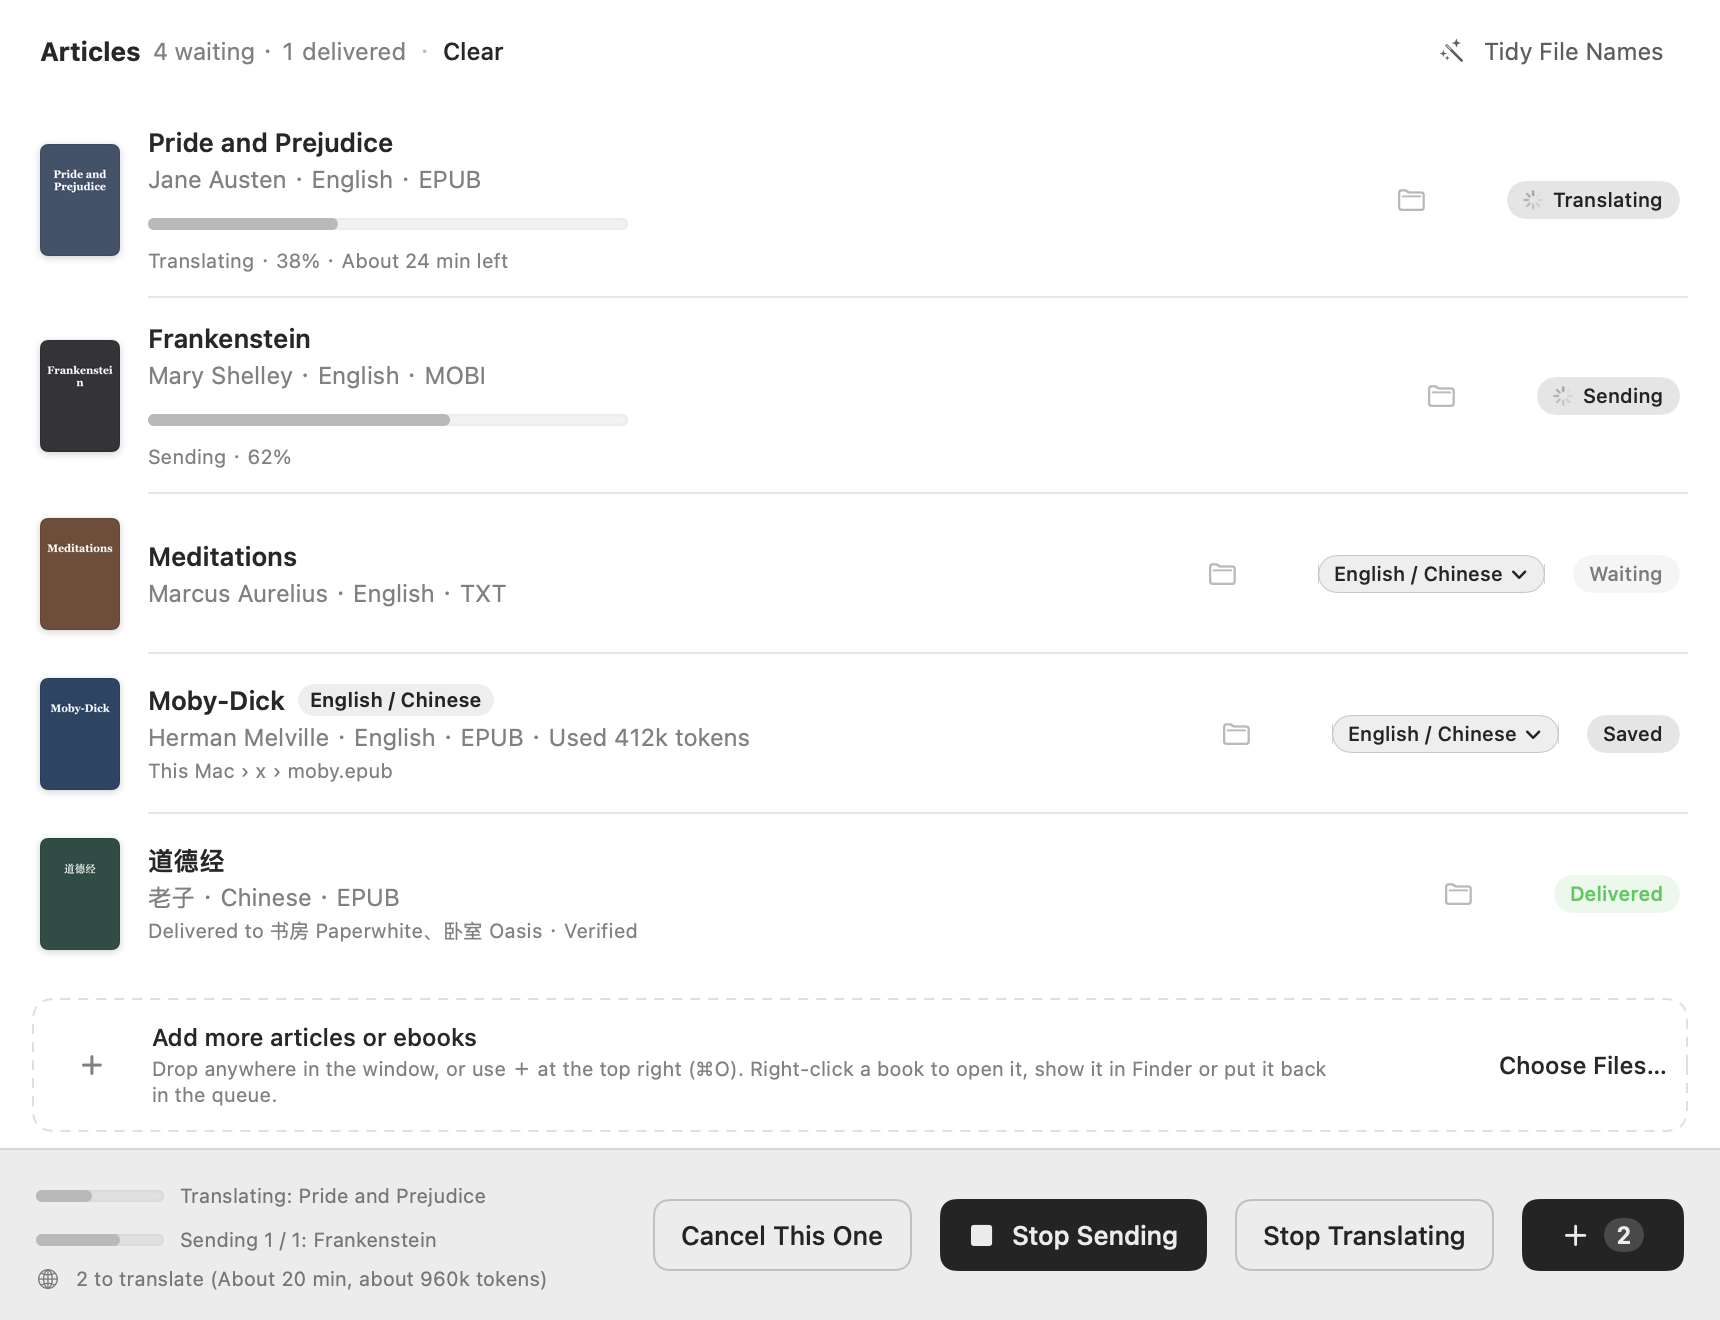
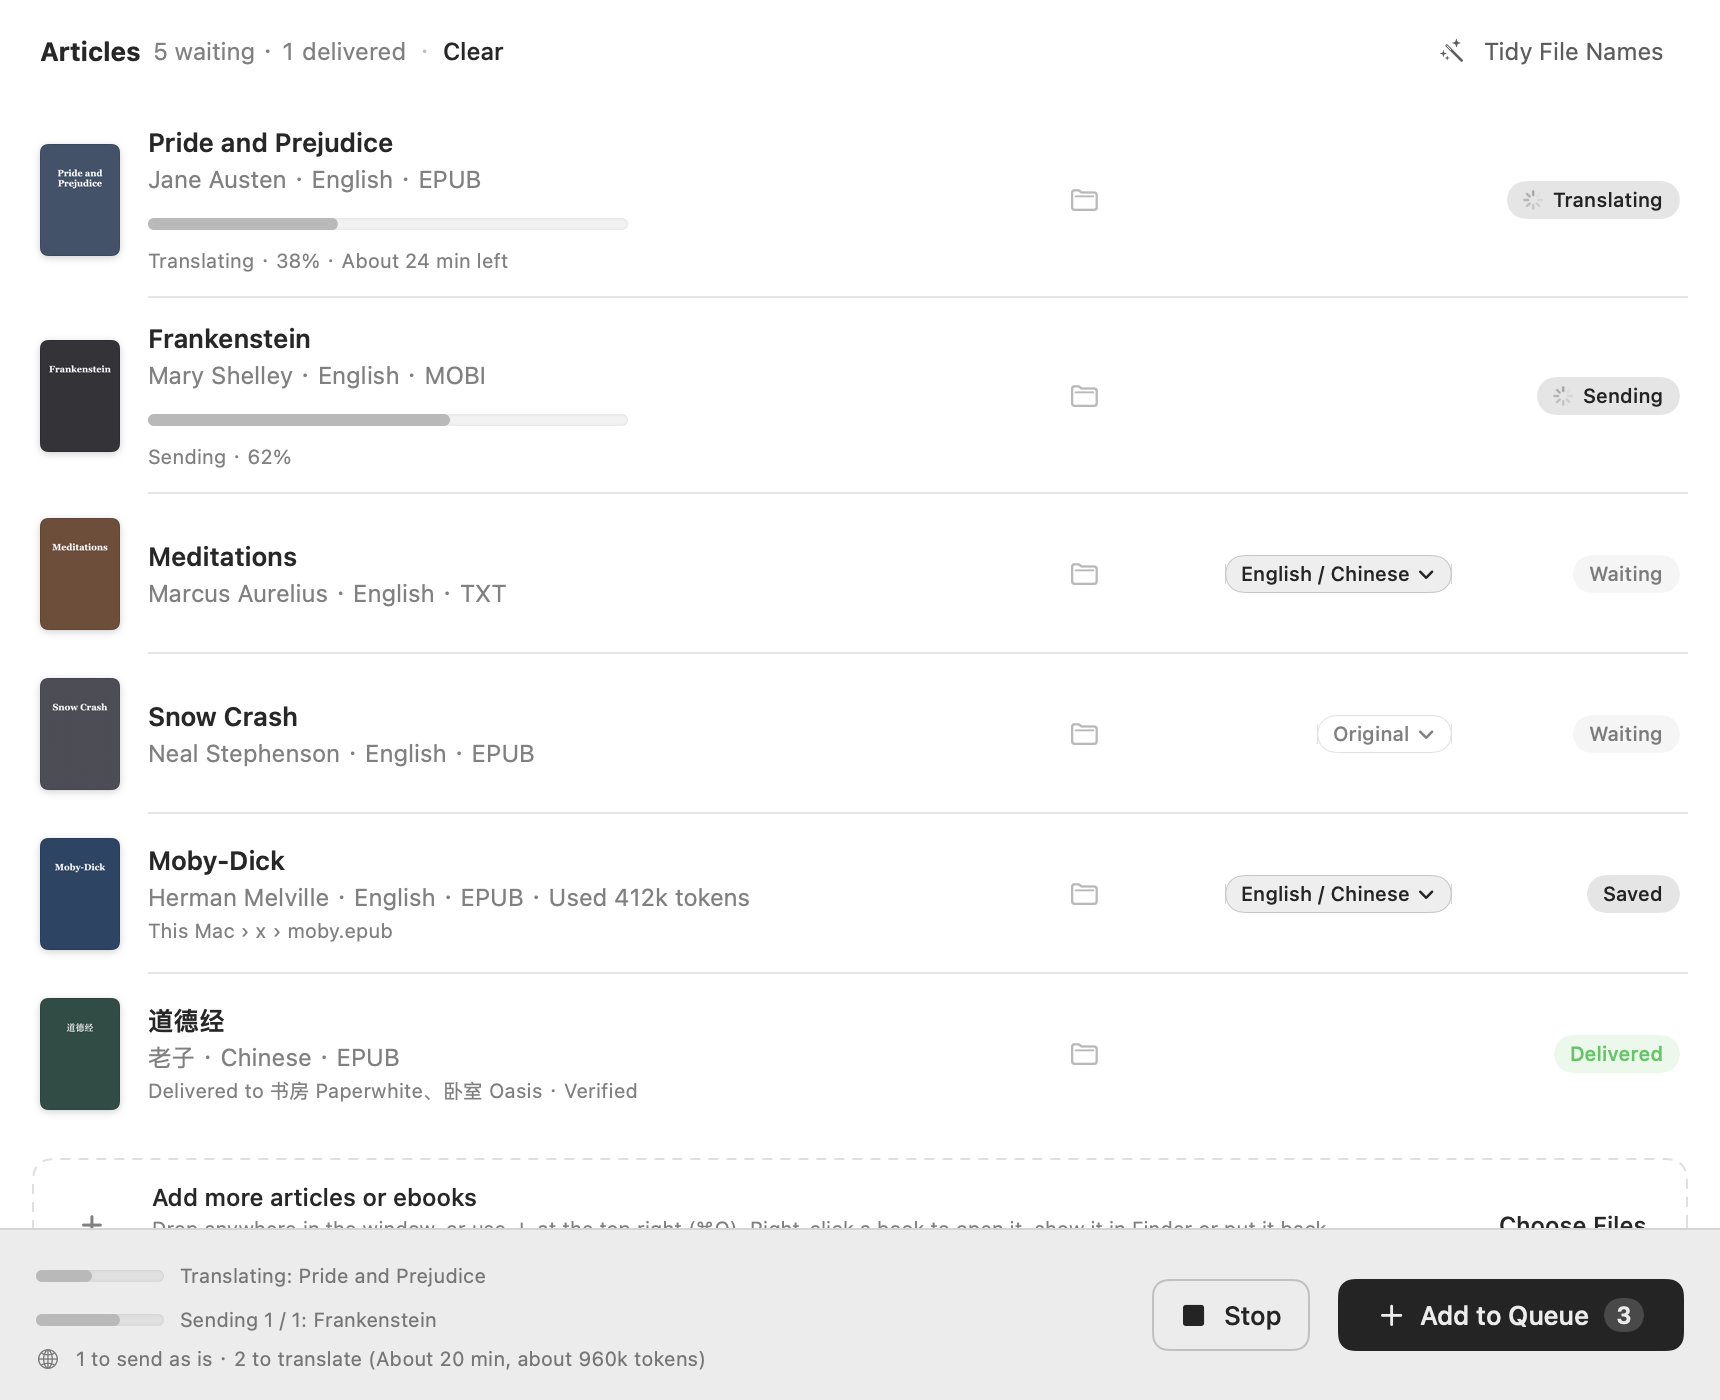
Align row columns, one Stop menu, consistent bilingual names

diff --git a/mac-app/Sources/KindlePush/Views/FooterBar.swift b/mac-app/Sources/KindlePush/Views/FooterBar.swift
@@ -14,11 +14,7 @@ struct FooterBar: View {
             HStack(alignment: .center, spacing: 14) {
                 summary
                 Spacer(minLength: 8)
-                if store.quick.running { sendingControls }
-                if store.currentJob != nil || store.translation.sending != nil {
-                    Button(store.currentJob != nil ? t("停止翻译") : t("取消发送译本")) { store.stopTranslation() }.buttonStyle(.inkOutline).controlSize(.large).fixedSize()
-                        .help(t("停止正在翻译的书；已完成的进度保留，排队的书回到待发送（⌘.）"))
-                }
+                stopControls
                 // While a queue runs, only "add to queue" stays, so the stop buttons and progress have room.
                 // No Kindle paired: this is a translation tool first, so saving is the main button.
                 if store.setupNeeded && !store.busy {
@@ -96,26 +92,51 @@ struct FooterBar: View {
         .frame(maxWidth: 380, alignment: .leading)
     }
 
-    /// Stop after the book in flight, or cancel it outright. Readable at all times: a status line
-    /// replaces the stop button once pressed, instead of a greyed-out button.
-    @ViewBuilder private var sendingControls: some View {
-        if store.quick.sending != nil {
-            Button(t("取消这本")) { store.stopSending(now: true) }
-                .buttonStyle(.inkOutline).controlSize(.large).fixedSize()
-                .help(t("断开正在传的这本，Kindle 上不会留下半个文件；后面的书也不再发送"))
+    private struct Stop: Identifiable {
+        let id: String
+        let title: String
+        let help: String
+        let action: () -> Void
+    }
+
+    /// Every way to stop what is running. One is a plain button; several share one "停止" menu,
+    /// so the bar never fills up with outline buttons, and a stop never looks like the main action.
+    private var stops: [Stop] {
+        var list: [Stop] = []
+        if store.quick.running && !store.sendStopRequested {
+            list.append(Stop(id: "send", title: t("停止发送"), help: t("正在传的这本照常传完并校验，排队的书回到待发送（⌘.）")) { store.stopSending() })
         }
+        if store.quick.running && store.quick.sending != nil {
+            list.append(Stop(id: "cancel", title: t("取消正在发的这本"), help: t("断开正在传的这本，Kindle 上不会留下半个文件；后面的书也不再发送")) { store.stopSending(now: true) })
+        }
+        if store.currentJob != nil || store.translation.sending != nil {
+            list.append(Stop(id: "translate", title: store.currentJob != nil ? t("停止翻译") : t("取消发送译本"),
+                             help: t("停止正在翻译的书；已完成的进度保留，排队的书回到待发送（⌘.）")) { store.stopTranslation() })
+        }
+        return list
+    }
+
+    /// A status line replaces "stop sending" once pressed, instead of a greyed-out button.
+    @ViewBuilder private var stopControls: some View {
         if store.sendStopRequested {
             HStack(spacing: 6) {
                 ProgressView().controlSize(.small)
-                Text(t("这本发完就停")).font(.callout)
+                Text(t("这本发完就停")).font(.callout).foregroundStyle(.secondary)
             }
             .fixedSize()
-        } else {
-            Button { store.stopSending() } label: {
-                Label(t("停止发送"), systemImage: "stop.fill")
+        }
+        let list = stops
+        if list.count == 1, let only = list.first {
+            Button(only.title, action: only.action)
+                .buttonStyle(.inkOutline).controlSize(.large).fixedSize().help(only.help)
+        } else if list.count > 1 {
+            Menu {
+                ForEach(list) { stop in Button(stop.title, action: stop.action).help(stop.help) }
+            } label: {
+                Label(t("停止"), systemImage: "stop.fill")
             }
-            .buttonStyle(.ink).controlSize(.large).fixedSize()
-            .help(t("正在传的这本照常传完并校验，排队的书回到待发送（⌘.）"))
+            .menuStyle(.button).buttonStyle(.inkOutline).controlSize(.large).fixedSize()
+            .help(t("停止发送、取消正在发的这本，或停止翻译"))
         }
     }
 
@@ -142,10 +163,7 @@ struct FooterBar: View {
         Button { Task { await store.send() } } label: {
             HStack(spacing: 7) {
                 Image(systemName: store.busy ? "plus" : "paperplane.fill")
-                // Both queues running leaves little room: "+ 2" still says it, with the words in the tooltip.
-                if !(store.translation.running && store.quick.running) {
-                    Text(store.busy ? t("加入队列") : store.targets.isEmpty ? t("发送到 Kindle") : t("发送到 \(store.targets.count) 台 Kindle"))
-                }
+                Text(store.busy ? t("加入队列") : store.targets.isEmpty ? t("发送到 Kindle") : t("发送到 \(store.targets.count) 台 Kindle"))
                 if !store.queueable.isEmpty {
                     Text("\(store.queueable.count)").font(.callout.weight(.semibold)).monospacedDigit()
                         .padding(.horizontal, 6).padding(.vertical, 1)

diff --git a/mac-app/Sources/KindlePush/Views/ArticleRow.swift b/mac-app/Sources/KindlePush/Views/ArticleRow.swift
@@ -14,7 +14,8 @@ struct ArticleRow: View {
                 HStack(spacing: 6) {
                     Text(article.title).font(.body.weight(.semibold)).lineLimit(1).truncationMode(.tail)
                         .help(article.path)
-                    if article.bilingual == true {
+                    // The menu tag at the end already says what this book becomes; this one is for books done with.
+                    if article.bilingual == true && !showsChoice {
                         Text(t(translatedLabel)).font(.caption2.weight(.semibold)).foregroundStyle(Color.ink)
                             .padding(.horizontal, 6).padding(.vertical, 1.5)
                             .background(Color.ink.opacity(0.08), in: Capsule())
@@ -60,8 +61,14 @@ struct ArticleRow: View {
                 .accessibilityLabel(t("更多操作"))
                 .opacity(hovering || selected ? 1 : 0)
             }
-            if showsChoice { TranslationChoice(article: article, store: store) }
-            StatusChip(article: article)
+            // Fixed columns, so the folder, the tag and the status line up from row to row.
+            let column: CGFloat = I18n.english ? 136 : 88
+            if showsChoice {
+                TranslationChoice(article: article, store: store).frame(minWidth: column, alignment: .trailing)
+            } else {
+                Color.clear.frame(width: column, height: 1)
+            }
+            StatusChip(article: article).frame(minWidth: I18n.english ? 100 : 72, alignment: .trailing)
         }
         .padding(.vertical, 8).padding(.horizontal, 4)
         .contentShape(Rectangle())

diff --git a/mac-app/Sources/KindlePush/Views/TranslationSettingsView.swift b/mac-app/Sources/KindlePush/Views/TranslationSettingsView.swift
@@ -99,7 +99,7 @@ struct TranslationSettingsView: View {
                     }
                 }
                 Picker(t("外文书默认"), selection: $store.foreignDefault) {
-                    ForEach(ForeignDefault.allCases, id: \.self) { Text(t($0.title)).tag($0) }
+                    ForEach(ForeignDefault.allCases, id: \.self) { Text($0.title(into: store.targetLanguage)).tag($0) }
                 }
             } footer: {
                 Text(languageNote)
@@ -124,7 +124,7 @@ struct TranslationSettingsView: View {
         let rule = t("拖入的书会在本机识别语言。")
         let choice = store.foreignDefault == .ask
             ? t("不是\(name)的书会在列表上方问你要不要翻译成\(name)；选了默认处理方式，就在拖入时直接标好。")
-            : t("不是\(name)的书拖入时直接标为「\(t(store.foreignDefault.title))」。")
+            : t("不是\(name)的书拖入时直接标为「\(store.foreignDefault.title(into: store.targetLanguage))」。")
         let tag = t("每本书行尾的标签都能单独改，包括翻成哪种语言。")
         return [rule, choice, tag, t("改动立即生效。")].filter { !$0.isEmpty }.joined(separator: I18n.sentenceGap)
     }

diff --git a/mac-app/Sources/KindlePush/Models/Article.swift b/mac-app/Sources/KindlePush/Models/Article.swift
@@ -230,6 +230,14 @@ enum ForeignDefault: String, CaseIterable {
         case .original: "发原文"
         }
     }
+    /// The same words the rows use, for the preferred language: 中文对照 / 仅中文, not a generic 双语对照.
+    func title(into target: String) -> String {
+        switch self {
+        case .bilingual: t("\(Lang.name(target))对照")
+        case .targetOnly: OutputMode.targetOnly.title(from: "", to: target)
+        case .ask, .original: t(title)
+        }
+    }
     var mode: OutputMode? {
         switch self {
         case .ask: nil

diff --git a/CHANGELOG.md b/CHANGELOG.md
@@ -1,5 +1,12 @@
 # 更新记录
 
+## 1.17.1
+
+- 列表行尾的文件夹、翻译标签和状态各占一列，上下对齐。
+- 底部栏：停止发送、取消这本、停止翻译合成一个「停止」菜单，主按钮只留给「发送 / 加入队列」，两条队列同时跑时也显示文字。
+- 设置 › 语言的「外文书默认」跟着偏好语言显示（如「中文对照 / 仅中文」），和列表里的叫法一致。
+- 正在选择翻译方式的书，书名旁不再重复显示「中英对照」。
+
 ## 1.17.0
 
 - 英文界面：系统语言不是中文时显示英文，也可以在设置 › 语言里选「界面语言」。错误提示、通知和进度都有英文。
